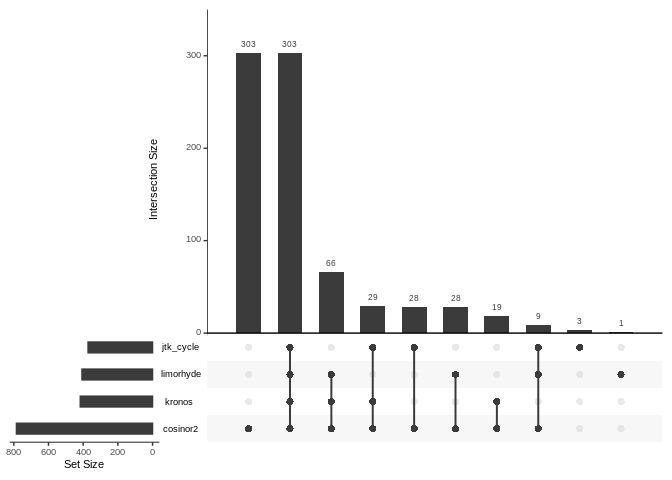
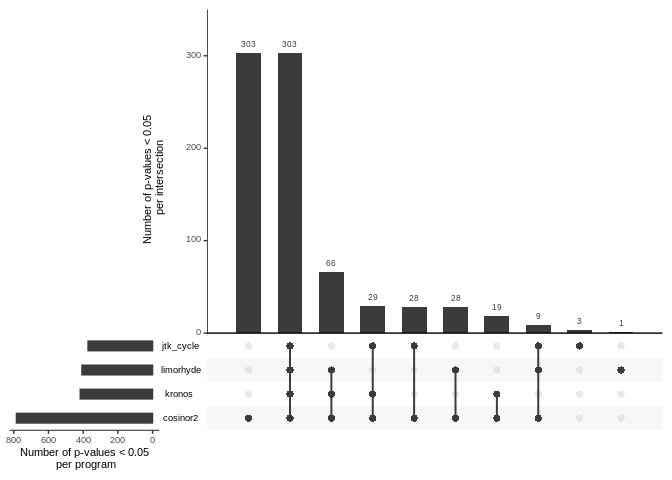
update

diff --git a/docs/benchmarking.md b/docs/benchmarking.md
@@ -18,73 +18,9 @@ source("00_load_and_clean_WGS.R")
 ``` r
 source("01a_run_kronos.R")
 source("01b_run_jtk_cycle.R")
-```
-
-    ## [1] "BH.Q"  "ADJ.P" "PER"   "LAG"   "AMP"
-
-``` r
 source("01c_run_limorhyde.R")
-```
-
-    ## [1] "gene_id"   "time_cos"  "time_sin"  "AveExpr"   "F"         "P.Value"  
-    ## [7] "adj.P.Val"
-
-``` r
 source("01d_run_cosinor2.R")
 ```
-
-    ## [1] "r"                                                                          
-    ## [2] "Percent.rhythm"                                                             
-    ## [3] "p.value"                                                                    
-    ## [4] "do.call.rbind..lapply.X...fw_cosinor.x...data..formula....time.Timepoint..."
-
-``` r
-head(res_kronos)
-```
-
-    ##               p.val       r.sq         avg      acro amplitude
-    ## Species_2 0.3515879 0.07194470 -0.59007048 22.658650 0.2627859
-    ## Species_3 0.7134866 0.02382527 -0.55378379 18.658285 0.1366910
-    ## Species_4 0.2495125 0.09440261  1.03005782 19.273910 0.1397519
-    ## Species_5 0.3632017 0.06978789 -0.03594562  5.880808 0.1856407
-    ## Species_6 0.7985742 0.01593787 -0.76990221 12.854223 0.1140083
-    ## Species_8 0.4024962 0.06293720  0.05263352 10.507180 0.1747327
-
-``` r
-head(res_jtk)
-```
-
-    ##               q.val     p.val period acro  amplitude
-    ## Species_2 1.0000000 0.3774844     24   18 0.26479047
-    ## Species_3 1.0000000 1.0000000     24   NA 0.04940765
-    ## Species_4 0.9651211 0.1992868     24   15 0.13129342
-    ## Species_5 1.0000000 1.0000000     24   NA 0.12170528
-    ## Species_6 1.0000000 1.0000000     24   NA 0.10195058
-    ## Species_8 1.0000000 1.0000000     24   NA 0.03600578
-
-``` r
-head(res_limo)
-```
-
-    ##      gene_id     time_cos    time_sin         avg         F     p.val     q.val
-    ## 1: Species_2  0.246748747 -0.09039613 -0.59337082 1.2529959 0.2943813 0.8330279
-    ## 2: Species_3  0.023440712 -0.13466616 -0.55802579 0.3689815 0.6932880 0.9590520
-    ## 3: Species_4  0.045749257 -0.13205147  1.02585356 0.9832489 0.3811448 0.8767841
-    ## 4: Species_5  0.005791869  0.18555031 -0.03017543 1.0099758 0.3714700 0.8707995
-    ## 5: Species_6 -0.111169227 -0.02528427 -0.77047212 0.2338499 0.7923334 0.9770689
-    ## 6: Species_8 -0.161557335  0.06656371  0.05502427 0.9355144 0.3990815 0.8796326
-
-``` r
-head(res_cosinor2)
-```
-
-    ##                   r       r.sq      p.val      acro
-    ## Species_2 0.2682251 0.07194470 0.14458386 37.271985
-    ## Species_3 0.1543544 0.02382527 0.40706041 30.691649
-    ## Species_4 0.3072501 0.09440261 0.09269616 31.704311
-    ## Species_5 0.2641740 0.06978789 0.15098209  9.673541
-    ## Species_6 0.1262453 0.01593787 0.49857470 21.144350
-    ## Species_8 0.2508729 0.06293720 0.17342296 17.283619
 
 ``` r
 res_tot = do.call(cbind, list(res_kronos, res_jtk, res_limo, res_cosinor2))
@@ -92,16 +28,7 @@ colnames(res_tot) = paste(colnames(res_tot), c(rep("kronos", ncol(res_kronos)),
                                                rep("jtk",    ncol(res_jtk)),
                                                rep("limo",    ncol(res_limo)),
                                                rep("cosinor2",    ncol(res_cosinor2))), sep = "_")
-
-colnames(res_tot)
 ```
-
-    ##  [1] "p.val_kronos"     "r.sq_kronos"      "avg_kronos"       "acro_kronos"     
-    ##  [5] "amplitude_kronos" "q.val_jtk"        "p.val_jtk"        "period_jtk"      
-    ##  [9] "acro_jtk"         "amplitude_jtk"    "gene_id_limo"     "time_cos_limo"   
-    ## [13] "time_sin_limo"    "avg_limo"         "F_limo"           "p.val_limo"      
-    ## [17] "q.val_limo"       "r_cosinor2"       "r.sq_cosinor2"    "p.val_cosinor2"  
-    ## [21] "acro_cosinor2"
 
 ``` r
 par(mfcol = c(2, 2))
@@ -148,7 +75,9 @@ list(kronos    = row.names(res_tot[res_tot$p.val_kronos   < 0.05,]),
      limorhyde = row.names(res_tot[res_tot$p.val_limo     < 0.05,]),
      cosinor2  = row.names(res_tot[res_tot$p.val_cosinor2 < 0.05,])) %>% 
   UpSetR::fromList() %>% 
-  UpSetR::upset(., order.by = "freq")
+  UpSetR::upset(., order.by = "freq", 
+                mainbar.y.label = "Number of p-values < 0.05\n per intersection", 
+                sets.x.label = "Number of p-values < 0.05\n per program")
 ```
 
 ![](benchmarking_files/figure-gfm/plot%20tools-3.png)<!-- -->
